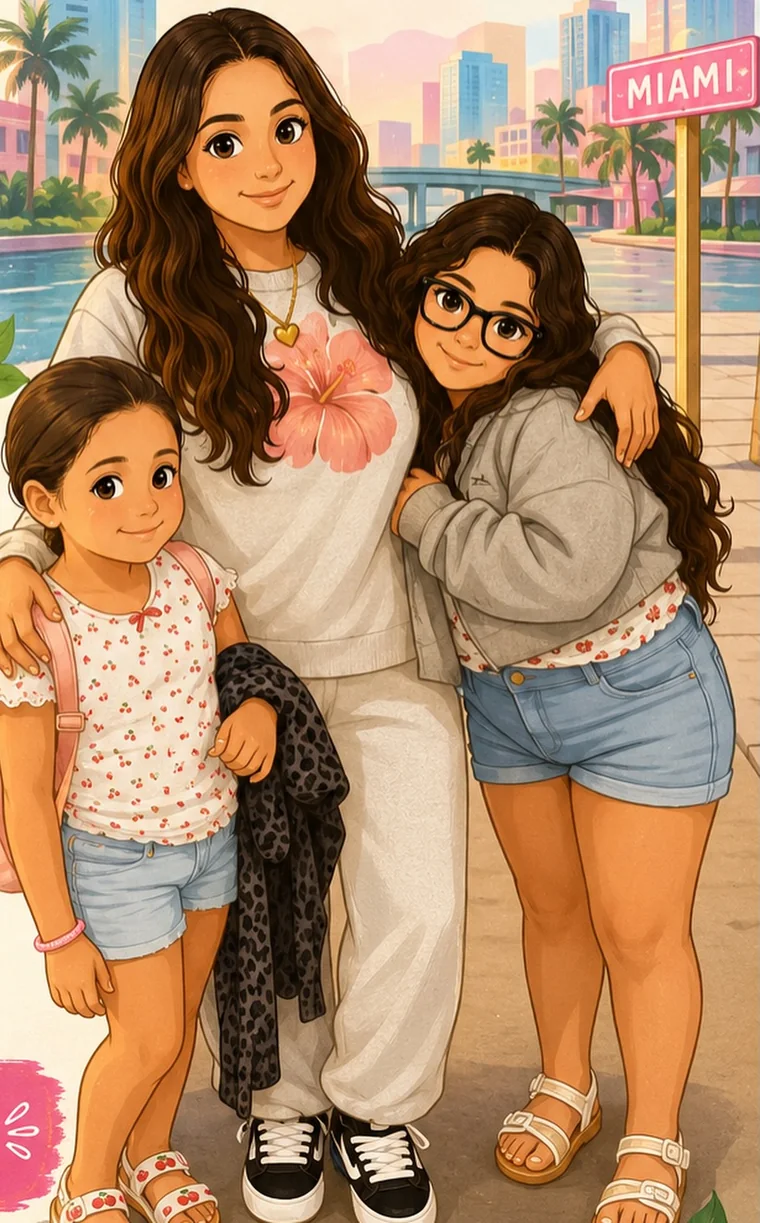
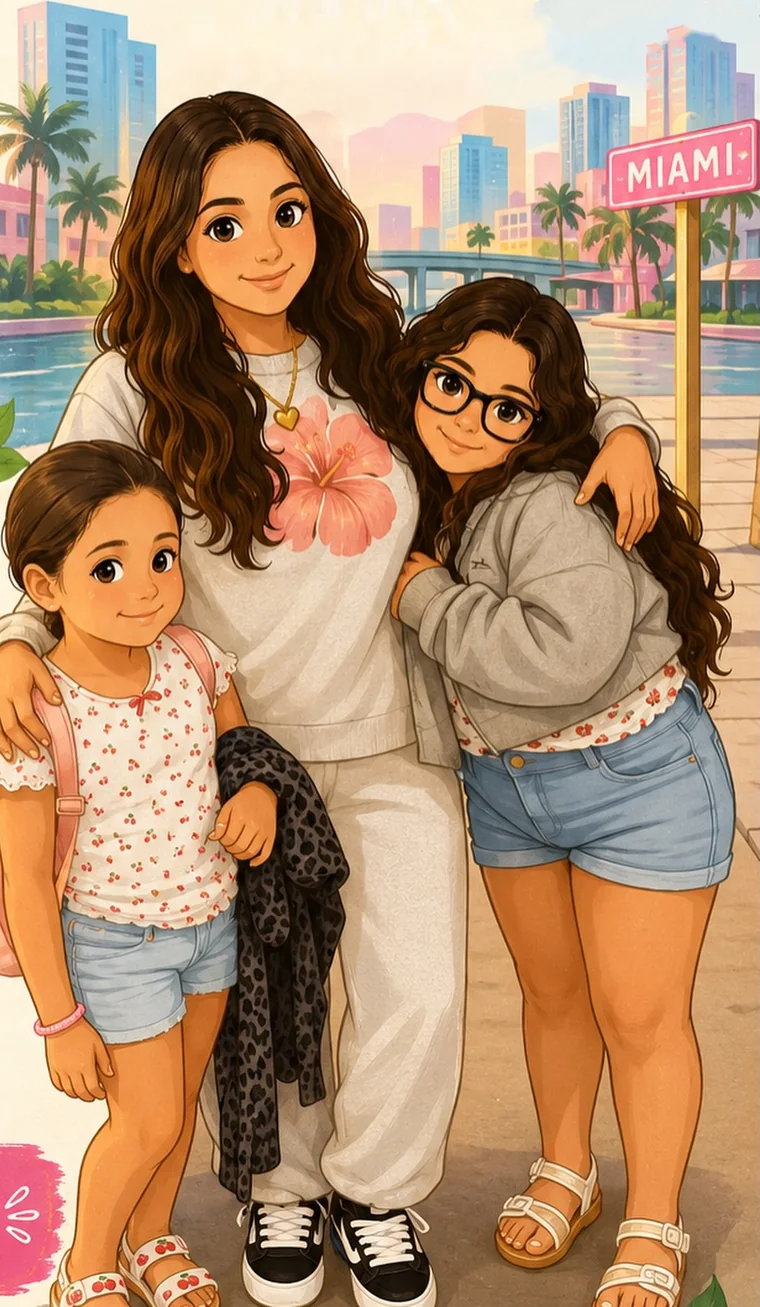
Give the family photos more room
- Mom's photo: show it head to waist like the original print instead of a
  tight head-and-shoulders crop, with clean wall above so nothing is cut
- Family illustration: remove the flyer text above the heads so there is
  sky above them instead of a tight top edge
- Slightly larger polaroids in the story section

Claude-Session: https://claude.ai/code/session_01LAzmNV7LckiHu7qwfhYPR6

diff --git a/sofias-fresh-lemonade/index.html b/sofias-fresh-lemonade/index.html
@@ -140,10 +140,10 @@
       <div class="story-art">
         <div class="story-stack">
           <figure class="sticker story-portrait">
-            <img src="/media/family.webp" width="760" height="1223" loading="lazy" alt="Our family, drawn for our story post: mom with an arm around each of her two daughters, the Miami skyline behind them.">
+            <img src="/media/family.webp" width="760" height="1307" loading="lazy" alt="Our family, drawn for our story post: mom with an arm around each of her two daughters, the Miami skyline behind them.">
           </figure>
           <figure class="polaroid polaroid-mom">
-            <img src="/media/family-mom.webp" width="400" height="480" loading="lazy" alt="Mom, smiling at the camera.">
+            <img src="/media/family-mom.webp" width="480" height="688" loading="lazy" alt="Mom, smiling at the camera.">
           </figure>
           <figure class="polaroid polaroid-girls">
             <img src="/media/family-girls.webp" width="561" height="672" loading="lazy" alt="The girls striking a pose in matching polka dots.">

diff --git a/sofias-fresh-lemonade/css/styles.css b/sofias-fresh-lemonade/css/styles.css
@@ -256,7 +256,7 @@ a { color: inherit; }
 .story { padding-top: calc(var(--band) + 6.25rem); }
 .story-grid { display: grid; grid-template-columns: minmax(0, 1fr); gap: 3.5rem; }
 .story-art { width: min(100%, 23rem); margin-inline: auto; }
-.story-stack { position: relative; padding: 0 1.25rem 3.25rem 1rem; }
+.story-stack { position: relative; padding: 0 1.25rem 5.5rem 1rem; }
 .story-portrait { rotate: -2deg; }
 .polaroid {
   position: absolute; margin: 0;
@@ -264,8 +264,8 @@ a { color: inherit; }
   box-shadow: 4px 5px 0 rgba(61, 11, 40, .22);
 }
 .polaroid img { width: 100%; }
-.polaroid-mom { width: 37%; left: -.4rem; bottom: .9rem; rotate: -7deg; }
-.polaroid-girls { width: 43%; right: -.5rem; bottom: 0; rotate: 6deg; }
+.polaroid-mom { width: 39%; left: -.5rem; bottom: .5rem; rotate: -6deg; }
+.polaroid-girls { width: 44%; right: -.5rem; bottom: 0; rotate: 6deg; }
 .handwritten {
   margin: 1.4rem auto 0; max-width: none; text-align: center;
   font: 700 clamp(1.5rem, 4.5vw, 1.85rem)/1 var(--display); color: var(--pink);
